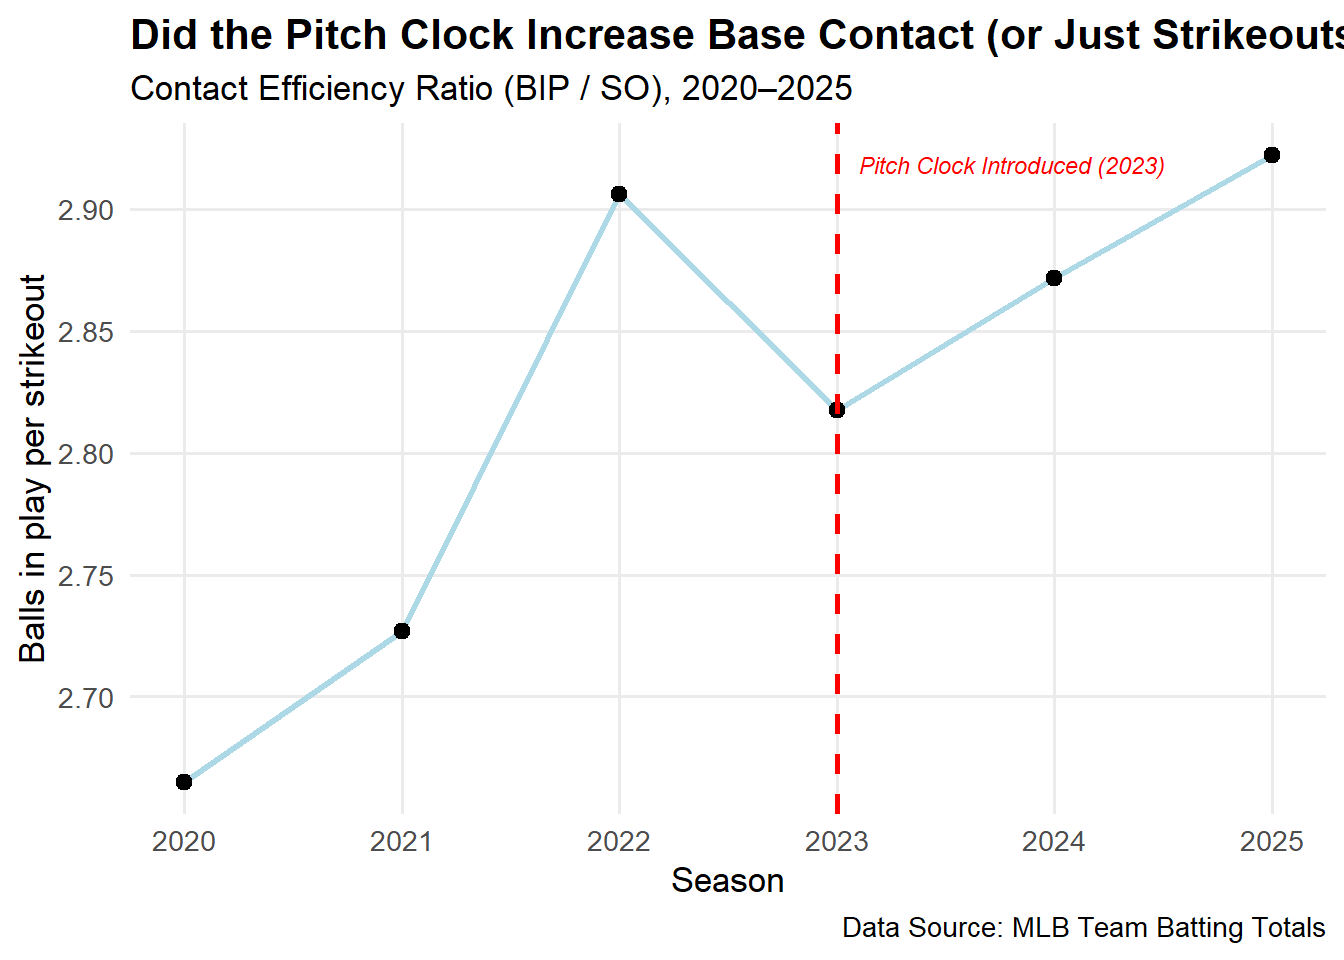
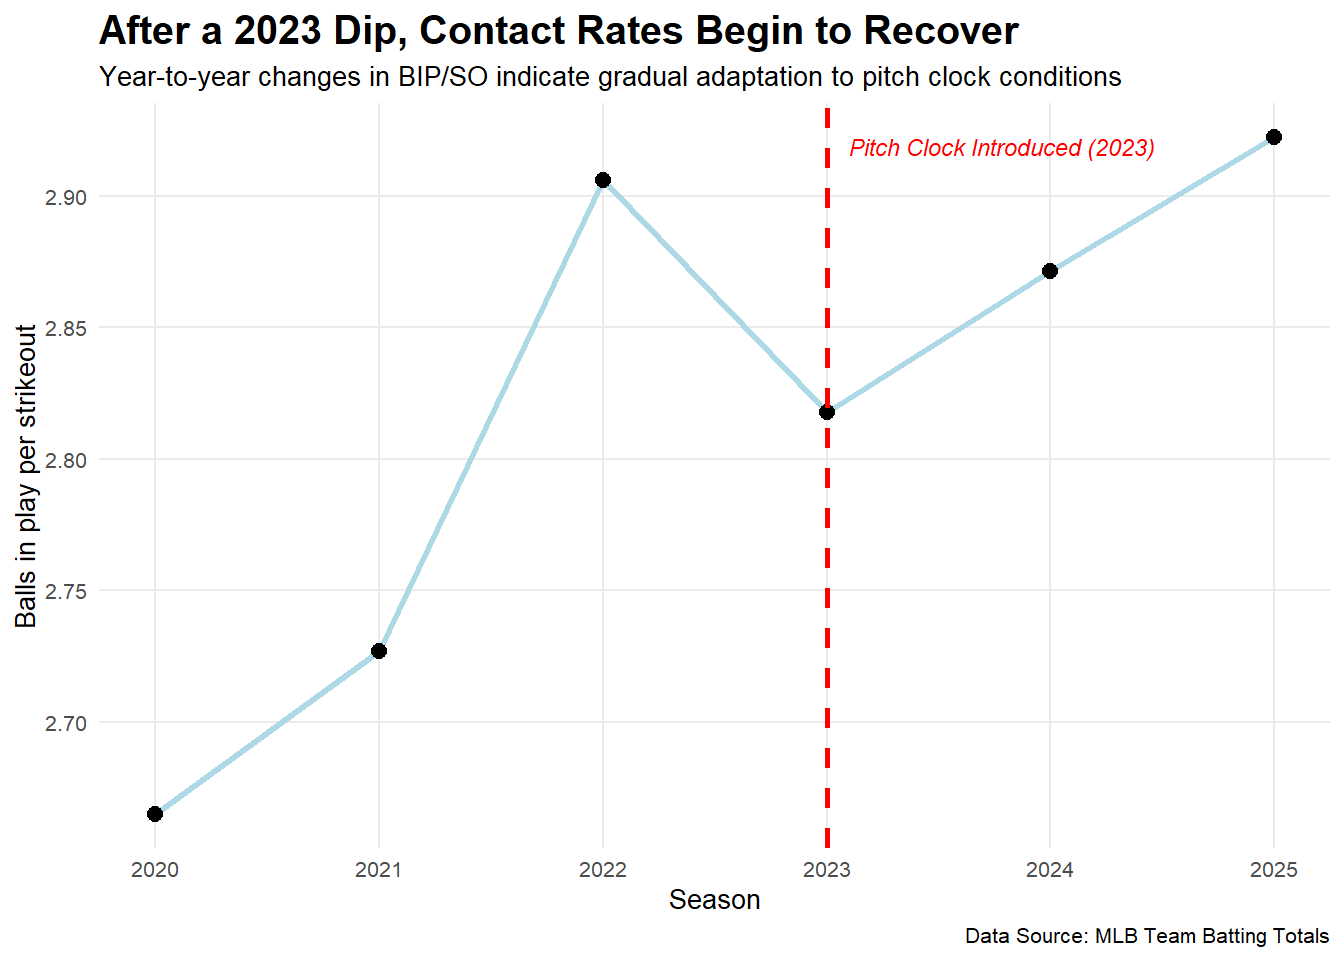
edit

diff --git a/posts/MLB-Pitch-Clock/index.html b/posts/MLB-Pitch-Clock/index.html
@@ -452,19 +452,19 @@ dbl (29): Year, Tms, #Bat, BatAge, R/G, G, PA, AB, R, H, 1B, 2B, 3B, HR, SB,...
 <span id="cb8-19"><a href="#cb8-19" aria-hidden="true" tabindex="-1"></a></span>
 <span id="cb8-20"><a href="#cb8-20" aria-hidden="true" tabindex="-1"></a><span class="fu">ggplot</span>(MLB_stats, <span class="fu">aes</span>(<span class="at">x =</span> <span class="fu">factor</span>(Year), <span class="at">y =</span> Value, <span class="at">fill =</span> Statistic)) <span class="sc">+</span></span>
 <span id="cb8-21"><a href="#cb8-21" aria-hidden="true" tabindex="-1"></a>  <span class="fu">geom_bar</span>(<span class="at">stat =</span> <span class="st">"identity"</span>, <span class="at">position =</span> <span class="st">"dodge"</span>) <span class="sc">+</span></span>
-<span id="cb8-22"><a href="#cb8-22" aria-hidden="true" tabindex="-1"></a>  <span class="fu">scale_fill_manual</span>(<span class="at">values =</span> <span class="fu">c</span>(<span class="st">"grey"</span>, <span class="st">"black"</span>, <span class="st">"red"</span>)) <span class="sc">+</span></span>
+<span id="cb8-22"><a href="#cb8-22" aria-hidden="true" tabindex="-1"></a>  <span class="fu">scale_fill_manual</span>(<span class="at">values =</span> <span class="fu">c</span>(<span class="st">"navyblue"</span>, <span class="st">"lightgrey"</span>, <span class="st">"red"</span>)) <span class="sc">+</span></span>
 <span id="cb8-23"><a href="#cb8-23" aria-hidden="true" tabindex="-1"></a>  <span class="fu">scale_y_continuous</span>(</span>
 <span id="cb8-24"><a href="#cb8-24" aria-hidden="true" tabindex="-1"></a>    <span class="at">breaks =</span> <span class="fu">seq</span>(<span class="dv">0</span>, <span class="fl">0.8</span>, <span class="fl">0.1</span>),  </span>
 <span id="cb8-25"><a href="#cb8-25" aria-hidden="true" tabindex="-1"></a>    <span class="at">limits =</span> <span class="fu">c</span>(<span class="dv">0</span>, <span class="fl">0.8</span>)</span>
 <span id="cb8-26"><a href="#cb8-26" aria-hidden="true" tabindex="-1"></a>  )<span class="sc">+</span></span>
 <span id="cb8-27"><a href="#cb8-27" aria-hidden="true" tabindex="-1"></a>  <span class="fu">labs</span>(</span>
-<span id="cb8-28"><a href="#cb8-28" aria-hidden="true" tabindex="-1"></a>    <span class="at">title =</span> <span class="st">"MLB Offensive Metrics by Year (2020–2025)"</span>,</span>
-<span id="cb8-29"><a href="#cb8-29" aria-hidden="true" tabindex="-1"></a>    <span class="at">subtitle=</span> <span class="st">"bfuebeu"</span>,</span>
+<span id="cb8-28"><a href="#cb8-28" aria-hidden="true" tabindex="-1"></a>    <span class="at">title =</span> <span class="st">"Offensive Production Holds Steady Despite the Pitch Clock"</span>,</span>
+<span id="cb8-29"><a href="#cb8-29" aria-hidden="true" tabindex="-1"></a>    <span class="at">subtitle=</span> <span class="st">"The pitch clock may have changed timing, but not results at the plate"</span>,</span>
 <span id="cb8-30"><a href="#cb8-30" aria-hidden="true" tabindex="-1"></a>    <span class="at">x =</span> <span class="st">"Season"</span>,</span>
-<span id="cb8-31"><a href="#cb8-31" aria-hidden="true" tabindex="-1"></a>    <span class="at">y =</span> <span class="st">"Value"</span>,</span>
+<span id="cb8-31"><a href="#cb8-31" aria-hidden="true" tabindex="-1"></a>    <span class="at">y =</span> <span class="st">"percentages"</span>,</span>
 <span id="cb8-32"><a href="#cb8-32" aria-hidden="true" tabindex="-1"></a>    <span class="at">fill =</span> <span class="st">"Statistic"</span></span>
 <span id="cb8-33"><a href="#cb8-33" aria-hidden="true" tabindex="-1"></a>  ) <span class="sc">+</span></span>
-<span id="cb8-34"><a href="#cb8-34" aria-hidden="true" tabindex="-1"></a>  <span class="fu">theme_minimal</span>(<span class="at">base_size =</span> <span class="dv">15</span>) <span class="sc">+</span></span>
+<span id="cb8-34"><a href="#cb8-34" aria-hidden="true" tabindex="-1"></a>  <span class="fu">theme_minimal</span>(<span class="at">base_size =</span> <span class="dv">11</span>) <span class="sc">+</span></span>
 <span id="cb8-35"><a href="#cb8-35" aria-hidden="true" tabindex="-1"></a>  <span class="fu">theme</span>(</span>
 <span id="cb8-36"><a href="#cb8-36" aria-hidden="true" tabindex="-1"></a>    <span class="at">plot.title =</span> <span class="fu">element_text</span>(<span class="at">face =</span> <span class="st">"bold"</span>),</span>
 <span id="cb8-37"><a href="#cb8-37" aria-hidden="true" tabindex="-1"></a>    <span class="at">legend.position =</span> <span class="st">"top"</span></span>
@@ -507,15 +507,15 @@ dbl (29): Year, Tms, #Bat, BatAge, R/G, G, PA, AB, R, H, 1B, 2B, 3B, HR, SB,...
 <span id="cb10-20"><a href="#cb10-20" aria-hidden="true" tabindex="-1"></a>           <span class="at">hjust =</span> <span class="dv">0</span>, <span class="at">vjust =</span> <span class="dv">1</span>, <span class="at">color =</span> <span class="st">"red"</span>, <span class="at">size =</span> <span class="dv">3</span>, <span class="at">fontface =</span> <span class="st">"italic"</span>) <span class="sc">+</span></span>
 <span id="cb10-21"><a href="#cb10-21" aria-hidden="true" tabindex="-1"></a>  </span>
 <span id="cb10-22"><a href="#cb10-22" aria-hidden="true" tabindex="-1"></a>  <span class="fu">labs</span>(</span>
-<span id="cb10-23"><a href="#cb10-23" aria-hidden="true" tabindex="-1"></a>    <span class="at">title =</span> <span class="st">"Did the Pitch Clock Increase Base Contact (or Just Strikeouts)?"</span>,</span>
-<span id="cb10-24"><a href="#cb10-24" aria-hidden="true" tabindex="-1"></a>    <span class="at">subtitle =</span> <span class="st">"Contact Efficiency Ratio (BIP / SO), 2020–2025"</span>,</span>
+<span id="cb10-23"><a href="#cb10-23" aria-hidden="true" tabindex="-1"></a>    <span class="at">title =</span> <span class="st">"After a 2023 Dip, Contact Rates Begin to Recover"</span>,</span>
+<span id="cb10-24"><a href="#cb10-24" aria-hidden="true" tabindex="-1"></a>    <span class="at">subtitle =</span> <span class="st">"Year-to-year changes in BIP/SO indicate gradual adaptation to pitch clock conditions"</span>,</span>
 <span id="cb10-25"><a href="#cb10-25" aria-hidden="true" tabindex="-1"></a>    <span class="at">x =</span> <span class="st">"Season"</span>,</span>
 <span id="cb10-26"><a href="#cb10-26" aria-hidden="true" tabindex="-1"></a>    <span class="at">y =</span> <span class="st">"Balls in play per strikeout"</span>,</span>
 <span id="cb10-27"><a href="#cb10-27" aria-hidden="true" tabindex="-1"></a>    <span class="at">caption =</span> <span class="st">"Data Source: MLB Team Batting Totals"</span></span>
 <span id="cb10-28"><a href="#cb10-28" aria-hidden="true" tabindex="-1"></a>  ) <span class="sc">+</span></span>
-<span id="cb10-29"><a href="#cb10-29" aria-hidden="true" tabindex="-1"></a>  <span class="fu">theme_minimal</span>(<span class="at">base_size =</span> <span class="dv">13</span>) <span class="sc">+</span></span>
+<span id="cb10-29"><a href="#cb10-29" aria-hidden="true" tabindex="-1"></a>  <span class="fu">theme_minimal</span>(<span class="at">base_size =</span> <span class="dv">10</span>) <span class="sc">+</span></span>
 <span id="cb10-30"><a href="#cb10-30" aria-hidden="true" tabindex="-1"></a>  <span class="fu">theme</span>(</span>
-<span id="cb10-31"><a href="#cb10-31" aria-hidden="true" tabindex="-1"></a>    <span class="at">plot.title =</span> <span class="fu">element_text</span>(<span class="at">face =</span> <span class="st">"bold"</span>),</span>
+<span id="cb10-31"><a href="#cb10-31" aria-hidden="true" tabindex="-1"></a>    <span class="at">plot.title =</span> <span class="fu">element_text</span>(<span class="at">face =</span> <span class="st">"bold"</span>, <span class="at">size=</span> <span class="dv">15</span>),</span>
 <span id="cb10-32"><a href="#cb10-32" aria-hidden="true" tabindex="-1"></a>    <span class="at">panel.grid.minor =</span> <span class="fu">element_blank</span>()</span>
 <span id="cb10-33"><a href="#cb10-33" aria-hidden="true" tabindex="-1"></a>  )</span></code></pre></div><button title="Copy to Clipboard" class="code-copy-button"><i class="bi"></i></button></div>
 </details>

diff --git a/index.html b/index.html
@@ -378,7 +378,7 @@ window.Quarto = {
 
 <div class="quarto-listing quarto-listing-container-default" id="listing-listing">
 <div class="list quarto-listing-default">
-<div class="quarto-post image-right" data-index="0" data-categories="TUxC" data-listing-date-sort="1762927200000" data-listing-file-modified-sort="1762991317493" data-listing-date-modified-sort="NaN" data-listing-reading-time-sort="5" data-listing-word-count-sort="832">
+<div class="quarto-post image-right" data-index="0" data-categories="TUxC" data-listing-date-sort="1762927200000" data-listing-file-modified-sort="1763006362789" data-listing-date-modified-sort="NaN" data-listing-reading-time-sort="5" data-listing-word-count-sort="851">
 <div class="thumbnail"><a href="./posts/MLB-Pitch-Clock/index.html" class="no-external">
 
 <img loading="lazy" src="./posts/MLB-Pitch-Clock/image.png" class="thumbnail-image">
